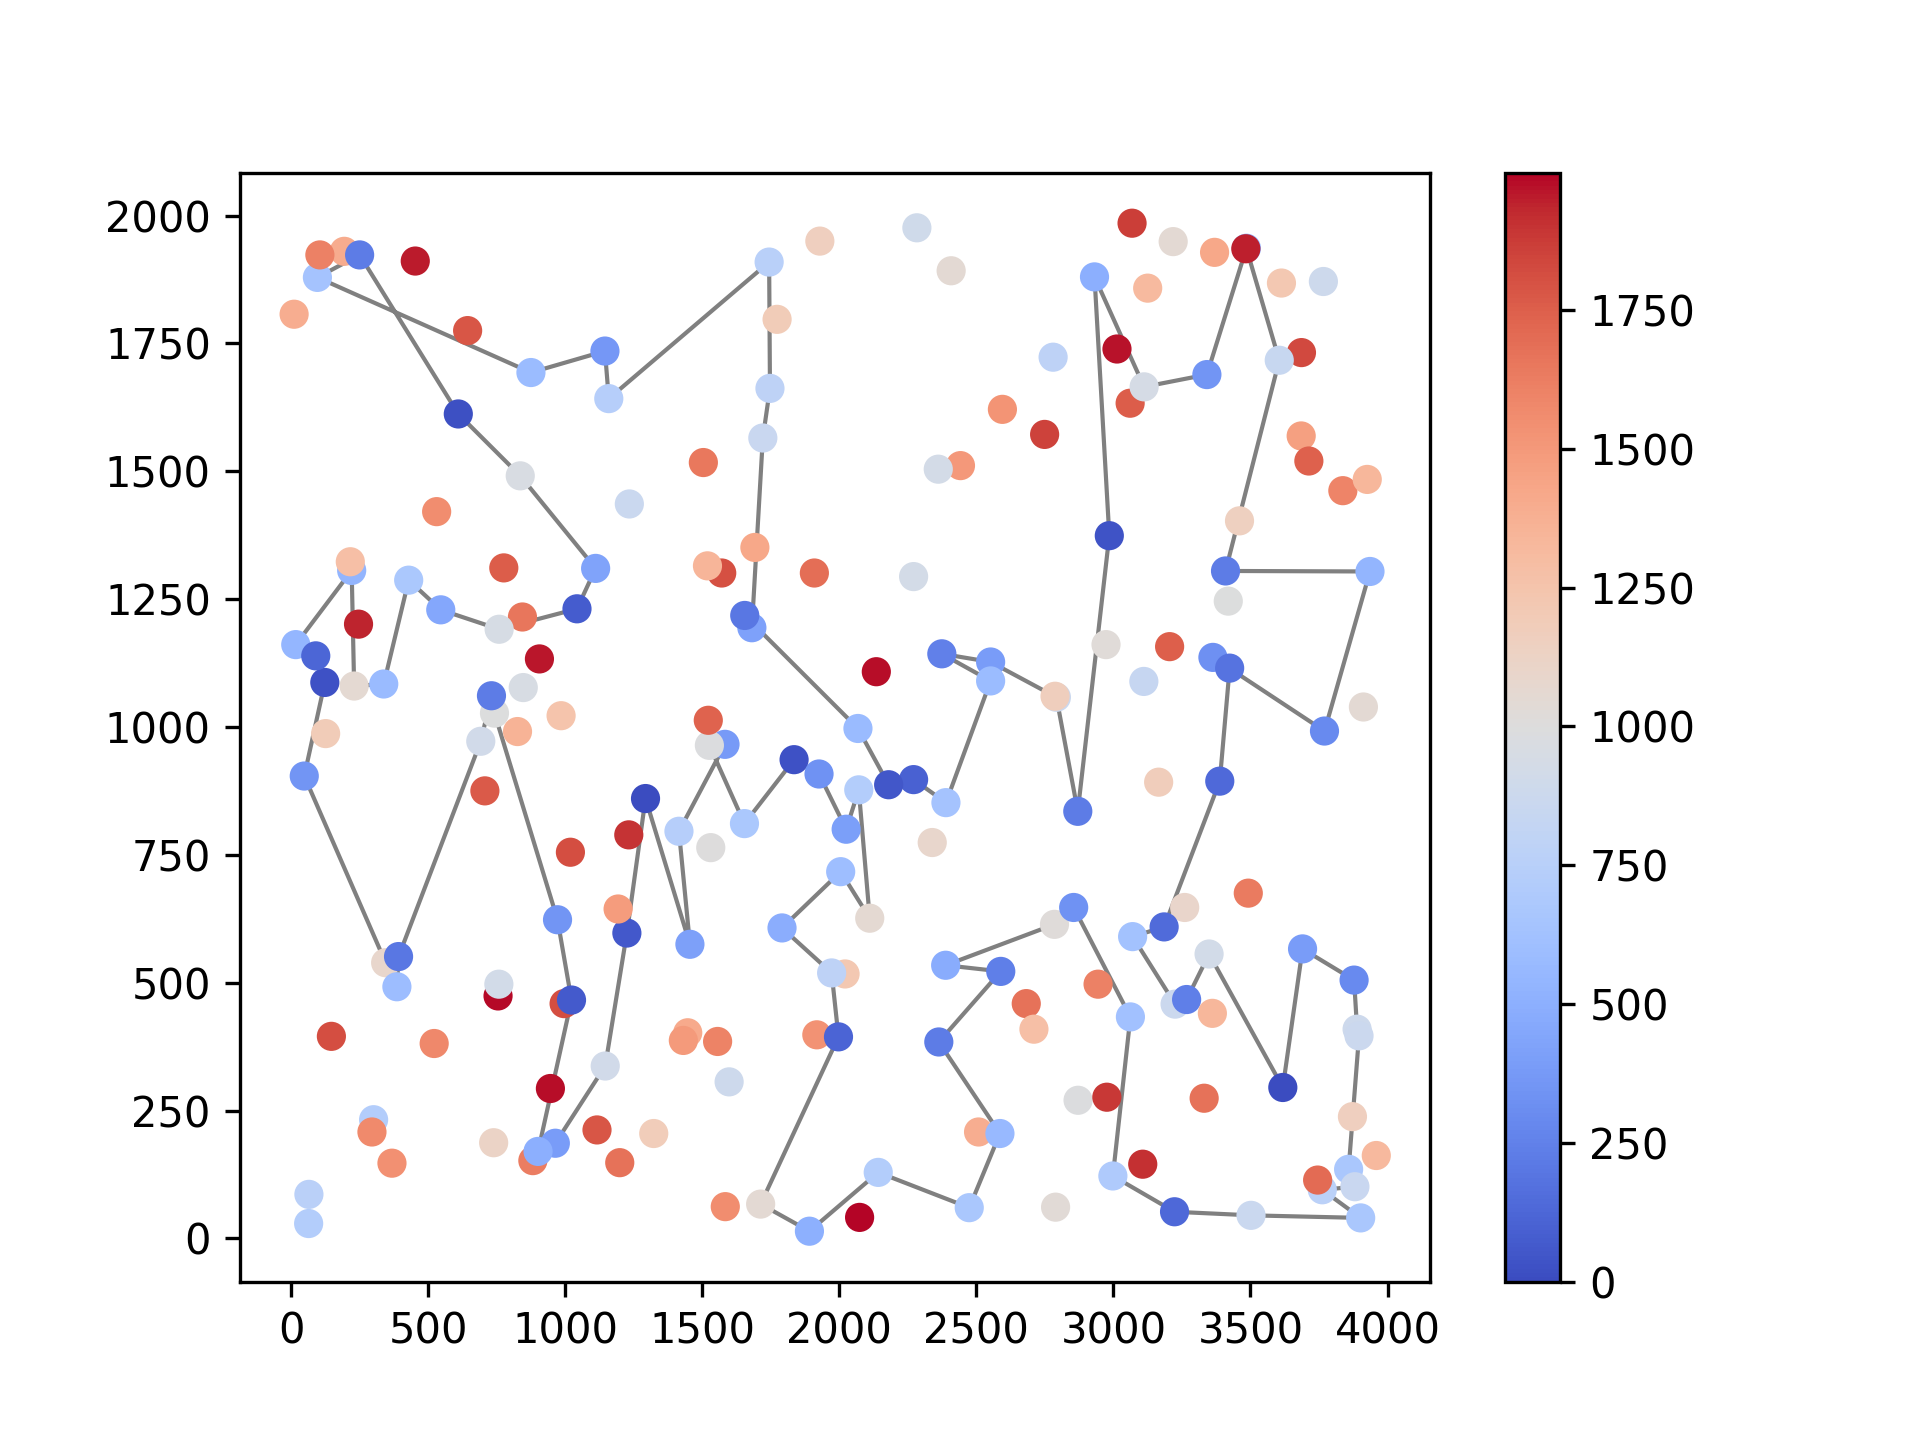
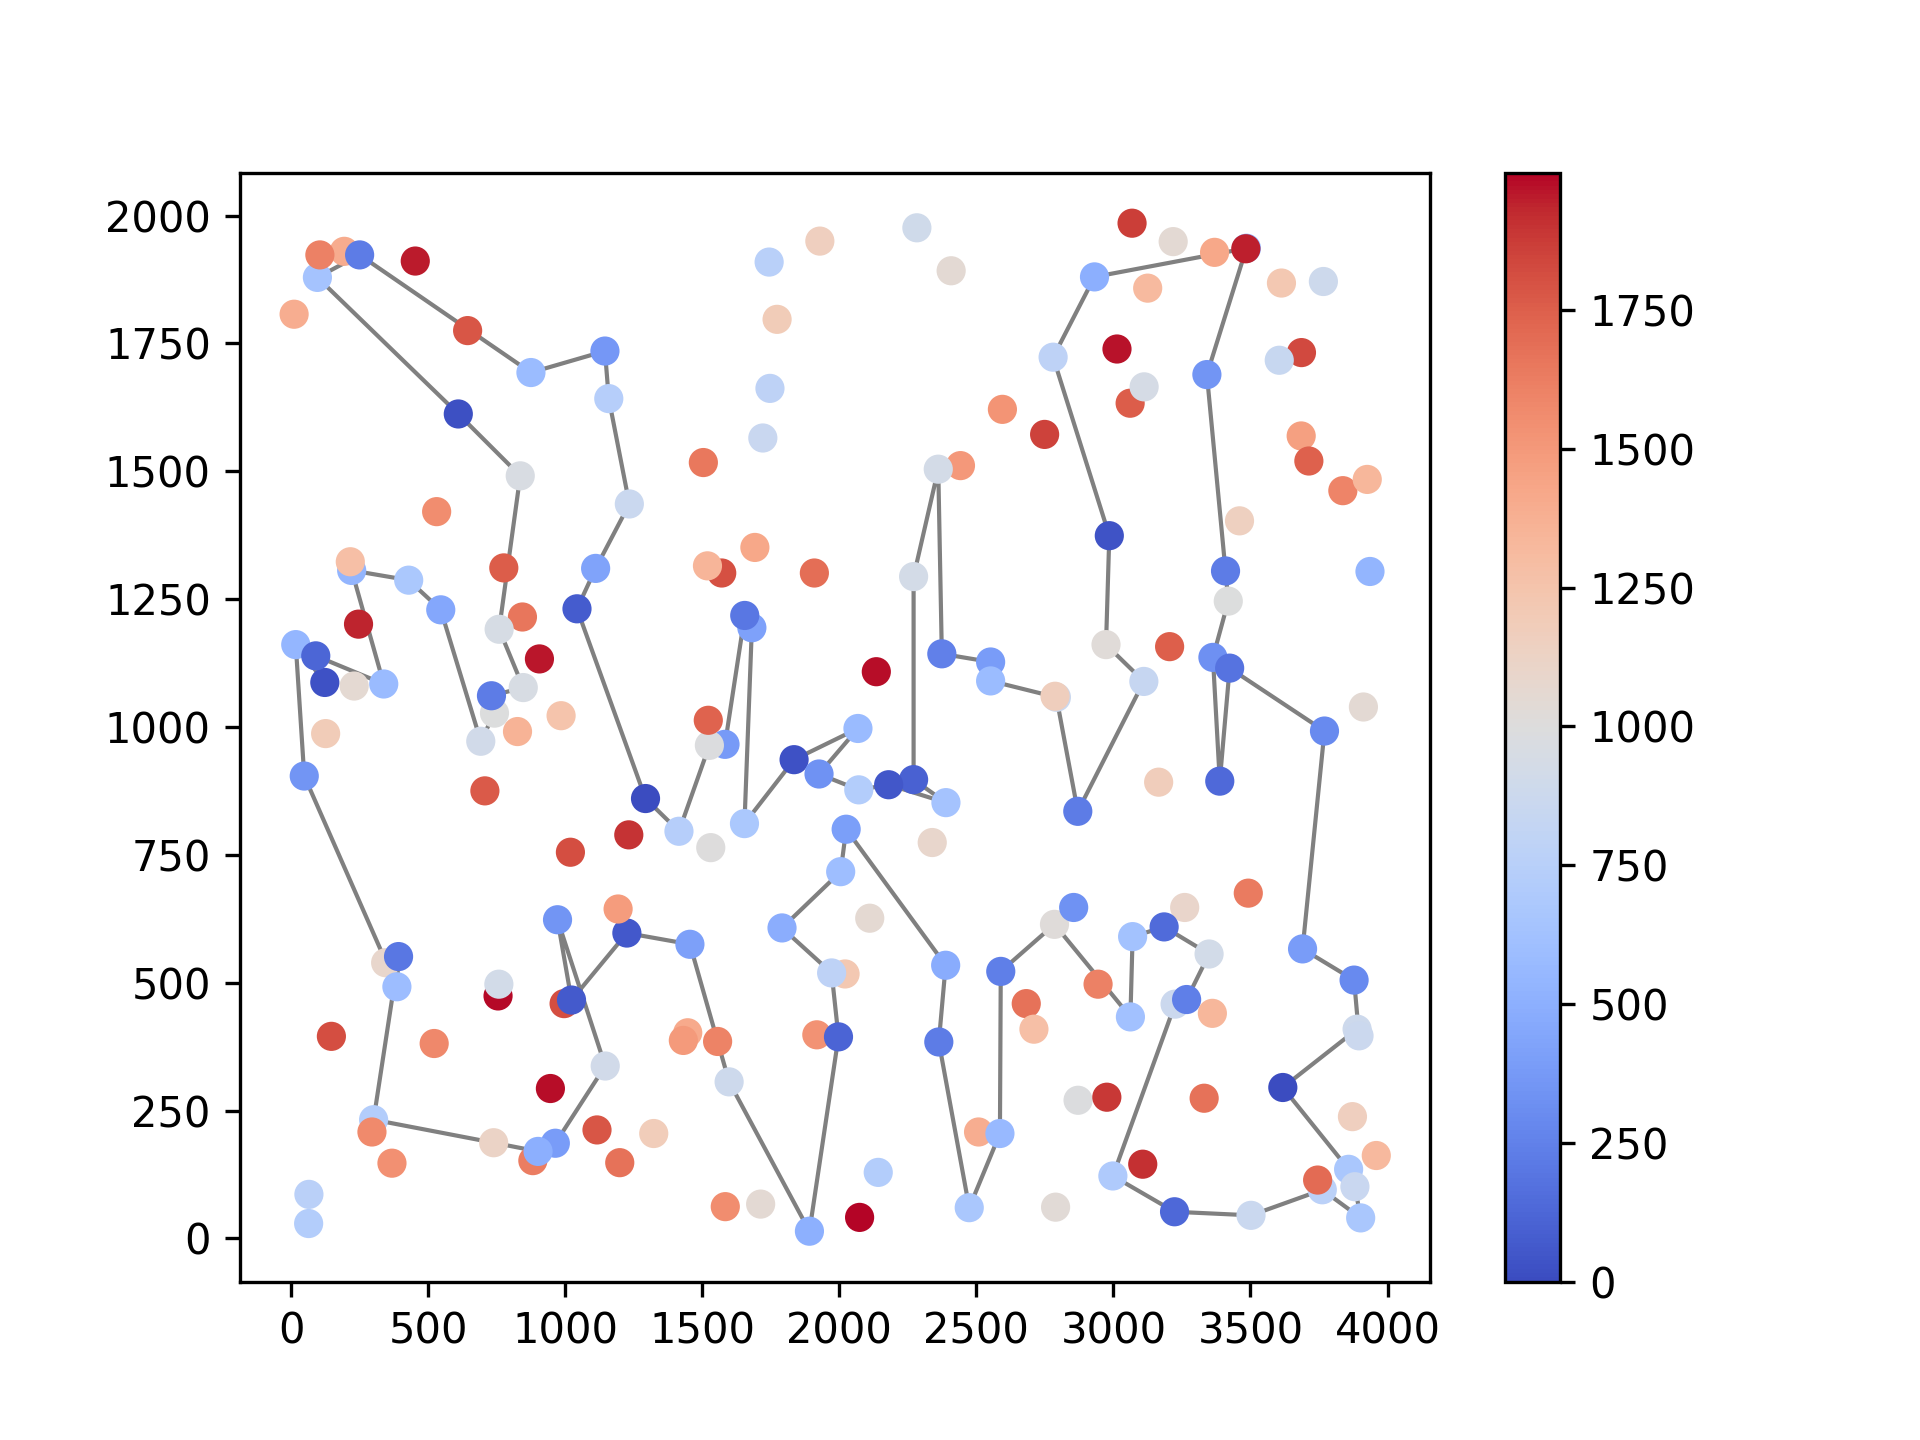
change greedy solution gen for instance A to greedycycle

diff --git a/cpp/3/local_search.cpp b/cpp/3/local_search.cpp
@@ -30,10 +30,11 @@ std::vector<int> find_greedy(const std::vector<std::vector<int>>& matrix, const 
 
             for (int idx = 0; idx <= sol_size; ++idx) {
                 double ins_cost = 0;
-                if (idx == 0) {
-                    ins_cost = matrix[node][sol[0]] + costs[node];
-                } else if (idx == sol_size) {
-                    ins_cost = matrix[sol.back()][node] + costs[node];
+                if (idx == 0 || idx == sol_size) {
+                    ins_cost = matrix[sol.back()][node]
+                                + costs[node]
+                                + matrix[node][sol[0]]
+                                - matrix[sol.back()][sol[0]];
                 } else {
                     ins_cost = costs[node] 
                              + matrix[sol[idx - 1]][node] 
@@ -325,7 +326,10 @@ int main(int argc, char* argv[]) {
     int run_count = 200;
 
     for (size_t idx = 0; idx < configurations.size(); ++idx) {
-        auto [strategy, move_type, start_type] = configurations[idx];
+        // auto [strategy, move_type, start_type] = configurations[idx];
+        std::string strategy = std::get<0>(configurations[idx]);
+        std::string move_type = std::get<1>(configurations[idx]);
+        std::string start_type = std::get<2>(configurations[idx]);
 
         std::cout << "Configuration " << (idx + 1) << "/8:\n";
         std::cout << "  Strategy: " << strategy << "\n";

diff --git a/cpp/3/report.md b/cpp/3/report.md
@@ -147,14 +147,14 @@ Algorithm: DeltaForMove(route, move, matrix, costs)
 
 | Method / Run type | Instance A: average (best - worst) | Instance B: average (best - worst) |
 | --- | --- | --- |
-| steepest, nodes, random | 89975.6 (83270 - 96771) | 65898.8 (58765 - 74064) |
-| steepest, nodes, greedy | 74666.5 (72089 - 76893) | 54288.8 (49978 - 61265) |
-| steepest, edges, random | 77397.5 (75016 - 80970) | 53573 (51443 - **56060**) |
-| steepest, edges, greedy | 73894.9 (72104 - 75652) | **53220.6** (49676 - 60362) |
-| greedy, nodes, random | 87647.3 (80713 - 95146) | 63668.8 (55856 - 70342) |
-| greedy, nodes, greedy | 74685.3 (72257 - 76909) | 54265.5 (49978 - 61265) |
-| greedy, edges, random | 77345.5 (75064 - 80622) | 53695.7 (51641 - 56949) |
-| greedy, edges, greedy | 74027.8 (72097 - 76385) | 53300.9 (**49570** - 60547) |
+| steepest, nodes, random | 89912.8 (82601 - 98560) | 65898.8 (58765 - 74064) |
+| steepest, nodes, greedy | 72997.2 (71994 - 75688) | 54288.8 (49978 - 61265) |
+| steepest, edges, random | 77422.7 (75020 - 80978) | 53573 (51443 - **56060**) |
+| steepest, edges, greedy | 73023.3 (72009 - 75073) | **53220.6** (49676 - 60362) |
+| greedy, nodes, random | 88102.2 (81263 - 95622) | 63668.8 (55856 - 70342) |
+| greedy, nodes, greedy | 73001.6 (71996 - 75688) | 54265.5 (49978 - 61265) |
+| greedy, edges, random | 77395 (74377 - 80103) | 53695.7 (51641 - 56949) |
+| greedy, edges, greedy | 73039.7 (72011 - 75156) | 53300.9 (**49570** - 60547) |
 | Lab 1: Nearest Neighbor | 87476.63 (84362 - 90075) | 59397.33 (56007 - 63166) |
 | Lab 1: Nearest Neighbor (all positions) | 74346.96 (72328 - 77022) | 59475.5 (52915 - 66164) |
 | Lab 1: Greedy Cycle | 73793.4 (72590 - **75281**) | 59649.91 (55655 - 63734) |
@@ -167,14 +167,14 @@ Algorithm: DeltaForMove(route, move, matrix, costs)
 
 | Method / Run type | Instance A: average (min - max) | Instance B: average (min - max) |
 | --- | --- | --- |
-| steepest, nodes, random | 0.243417s (0.19872 - 0.347455) | 0.243801s (0.197221 - 0.317648) |
-| steepest, nodes, greedy | 0.151723s (0.142109 - 0.170276) | 0.159687s (0.138963 - 0.182584) |
-| steepest, edges, random | 0.410427s (0.346246 - 0.47343) | 0.41292s (0.366126 - 0.469225) |
-| steepest, edges, greedy | 0.166165s (0.14206 - 0.201614) | 0.181376s (0.148795 - 0.229889) |
-| greedy, nodes, random | **0.0308224s** (**0.0164679** - 0.0529609) | **0.028847s** (**0.0183508** - **0.0511948)** |
-| greedy, nodes, greedy | 0.148551s (0.140379 - 0.160058) | 0.150827s (0.138765 - 0.165104) |
-| greedy, edges, random | 0.0326536s (0.0204918 - **0.0528527**) | 0.033262s (0.0214708 - 0.0536183) |
-| greedy, edges, greedy | 0.154173s (0.143242 - 0.178303) | 0.158293s (0.142438 - 0.176939) |
+| steepest, nodes, random | 0.0300408s (0.013712 - 0.071944) | 0.243801s (0.197221 - 0.317648) |
+| steepest, nodes, greedy | 0.0315856s (0.015717 - 0.047236) | 0.159687s (0.138963 - 0.182584) |
+| steepest, edges, random | 0.0420736s (0.030078 - 0.08315) | 0.41292s (0.366126 - 0.469225) |
+| steepest, edges, greedy | 0.0321704s (0.015974 - 0.047793) | 0.181376s (0.148795 - 0.229889) |
+| greedy, nodes, random | 0.0131208s (**0.000001** - 0.242158) | **0.028847s** (**0.0183508** - **0.0511948)** |
+| greedy, nodes, greedy | 0.0331617s (0.02459 - 0.139812) | 0.150827s (0.138765 - 0.165104) |
+| greedy, edges, random | **0.00539217s** (0.002004 - **0.009615**) | 0.033262s (0.0214708 - 0.0536183) |
+| greedy, edges, greedy | 0.0321698s (0.02845 - 0.040014) | 0.158293s (0.142438 - 0.176939) |
 
 ## Instance A
 
